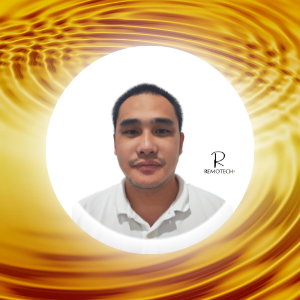
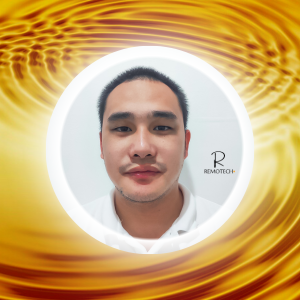
hiring and meet me
hiring post and meet me

Changed region(s): [[0.18, 0.21, 0.81, 0.84]]

diff --git a/index.html b/index.html
@@ -571,20 +571,21 @@
 					<div class="panel with-nav-tabs panel-primary">
 						<div class="panel-heading">
 							<ul class="nav nav-tabs">
-								<li><a href="#tab1primary" data-toggle="tab">IT Support Technician Qualification</a></li>
-								<li><a href="#tab2primary" data-toggle="tab">Sales Account Executive Qualification</a></li>
+								<li><a href="#tab1primary" data-toggle="tab">Sales Support Speacialist Qualification</a></li>
+								<li><a href="#tab2primary" data-toggle="tab">IT Support Technician Qualification</a></li>
+								
 							</ul>
 						</div>
 						<div id="panelBody">
 							<div class="tab-content">
 							
 								<!-- Sales Account Executive -->
-								<div class="tab-pane fade" id="tab2primary">
+								<div class="tab-pane fade" id="tab1primary">
 									<div class="text-center">
-										<h1>Sales Account Executive</h1>
-										<h3>This position is currently closed</h3>
+										<h1>Sales Support Speacialist</h1>
+										<!-- <h3>This position is currently closed</h3> -->
 										<a href="mailto:remotechiloilo@gmail.com?subject=New Applicant from PH for Sales Account Executive&cc=larry_ferrett@sparco.com">
-											<!-- <span class="btn btn-general spn-career-txt"><i class="fas fa-upload"></i> Submit Your Resume Here</span> -->
+											<span class="btn btn-general spn-career-txt"><i class="fas fa-upload"></i> Submit Your Resume Here</span>
 										</a>
 									</div>
 									<fieldset class="fieldset-career mt-20"> 
@@ -602,7 +603,7 @@
 												</tr>
 												<tr>
 													<th scope="row"><i class="fas fa-check"></i></th>
-													<td><span>Starting Salary – PHP 22K - 25K /MONTH</span></td>
+													<td><span>Starting Salary – PHP 23K - 24K /MONTH</span></td>
 												</tr>
 												<tr>
 													<th scope="row"><i class="fas fa-check"></i></th>
@@ -617,23 +618,25 @@
 									</fieldset>
 									<fieldset class="fieldset-career mt-60"> 
 										<legend class="fieldset-legend">Job Introduction</legend>
-
 										<p class="mt-20 pdg-rl-30">
-											Are you an excellent communicator with a successful track record in sales? Want to represent a cutting-edge product offering and take on an exciting role where you can make a real impact? If so, we want to hear from you.
+											You should possess extensive experience in sales, quoting, and customer service. You will help with customer orders, account statuses, tracking and appointment settings. You should have the ability to analyze and interpret sales metrics. Excellent in English communication is a must.
 										</p>
+										<!-- <p class="mt-20 pdg-rl-30"> -->
+											<!-- Are you an excellent communicator with a successful track record in sales? Want to represent a cutting-edge product offering and take on an exciting role where you can make a real impact? If so, we want to hear from you. -->
+										<!-- </p> -->
 										
-										<p class="pdg-rl-30">
-											Unistar-Sparco Computers Inc. is fast-paced IT tech company with an eye on the Future. We are currently seeking experienced Sales Account Executives to join us and drive sales of our innovative IT solutions. 
-				We are looking for an individual who is a closer and has a proven track record of generating sales, and is accustomed to earnings commensurate with their sales skills, experience and effort. We offer a range of IT hardware, software and professional services, as well as office equipment and supplies. Our client base spans the globe and includes Federal, State, and Local Government agencies, education institutions and large and small businesses.
-										</p>
+										<!-- <p class="pdg-rl-30"> -->
+											<!-- Unistar-Sparco Computers Inc. is fast-paced IT tech company with an eye on the Future. We are currently seeking experienced Sales Account Executives to join us and drive sales of our innovative IT solutions.  -->
+				<!-- We are looking for an individual who is a closer and has a proven track record of generating sales, and is accustomed to earnings commensurate with their sales skills, experience and effort. We offer a range of IT hardware, software and professional services, as well as office equipment and supplies. Our client base spans the globe and includes Federal, State, and Local Government agencies, education institutions and large and small businesses. -->
+										<!-- </p> -->
 										
-										<p class="pdg-rl-30">
-											We want people who are looking for a career, not just a job. You will join a skilled group of problem-solvers and innovators who are focused on delivering the very best for our clients. If you are enthusiastic, tenacious and driven, you will love working with us. 
-										</p>
+										<!-- <p class="pdg-rl-30"> -->
+											<!-- We want people who are looking for a career, not just a job. You will join a skilled group of problem-solvers and innovators who are focused on delivering the very best for our clients. If you are enthusiastic, tenacious and driven, you will love working with us.  -->
+										<!-- </p> -->
 										
-										<p class="pdg-rl-30">
-											This is a great opportunity to join an award-winning business and sell leading solutions in an exciting and constantly evolving industry. You will have the chance to share your knowledge with an ambitious team, challenge yourself and play a vital role in the ongoing success of our business. 
-										</p>
+										<!-- <p class="pdg-rl-30"> -->
+											<!-- This is a great opportunity to join an award-winning business and sell leading solutions in an exciting and constantly evolving industry. You will have the chance to share your knowledge with an ambitious team, challenge yourself and play a vital role in the ongoing success of our business.  -->
+										<!-- </p> -->
 								</fieldset>
 								<fieldset class="fieldset-career mt-60"> 
 									<legend class="fieldset-legend">Qualifications</legend>
@@ -713,7 +716,7 @@
 								</div>
 								
 								<!-- IT Support Technician -->
-								<div class="active tab-pane fade" id="tab1primary">
+								<div class="active tab-pane fade" id="tab2primary">
 									<div class="text-center">
 										<h1>IT Support Technician</h1>
 										<h3>This position is currently closed</h3>
@@ -928,22 +931,22 @@
 									<span><em> - Web Developer</em></span>
 								</div>
 							</div>
-							<div id="rMag-6" class="card" data-toggle="modal" data-target="#RemotechMagazine-delete">
+							<div id="rMag-6" class="card" data-toggle="modal" data-target="#RemotechMagazine">
+								<img class="card-img-top" src="img/meet-jan.png" alt="Team">
+								<div class="card-footer">
+									<span class="font-weight-bold">Jan Michael</span>
+								</div>
+								<div class="card-footer">
+									<span><em>- Lead Capture</em></span>
+								</div>
+							</div>
+							<div id="rMag-7" class="card" data-toggle="modal" data-target="#RemotechMagazine-delete">
 								<img class="card-img-top" src="img/meet-me.png" alt="Team">
 								<div class="card-footer">
 									<span class="font-weight-bold">Vacant Position</span>
 								</div>
 								<div class="card-footer">
-									<span><em>- Lead Capture/Warranty</em></span>
-								</div>
-							</div>
-							<div id="rMag-7" class="card" data-toggle="modal" data-target="#RemotechMagazine">
-								<img class="card-img-top" src="img/meet-dale.png" alt="Team">
-								<div class="card-footer">
-									<span class="font-weight-bold">Dale</span>
-								</div>
-								<div class="card-footer">
-									<span><em>- Administrative Assistant</em></span>
+									<span><em>- Sales Support Specialist</em></span>
 								</div>
 							</div>
 							<div id="rMag-8" class="card" data-toggle="modal" data-target="#RemotechMagazine">
@@ -970,10 +973,10 @@
 									<span><em>- Quality Assurance</em></span>
 								</div>
 							</div>
-							<div id="rMag-10" class="card" data-toggle="modal" data-target="#RemotechMagazine-delete">
-								<img class="card-img-top" src="img/meet-me.png" alt="Team">
+							<div id="rMag-10" class="card" data-toggle="modal" data-target="#RemotechMagazine">
+								<img class="card-img-top" src="img/meet-paulo.png" alt="Team">
 								<div class="card-footer">
-									<span class="font-weight-bold">Vacant Position</span>
+									<span class="font-weight-bold">Paulo</span>
 								</div>
 								<div class="card-footer">
 									<span><em>- Travel Coordinator</em></span>
